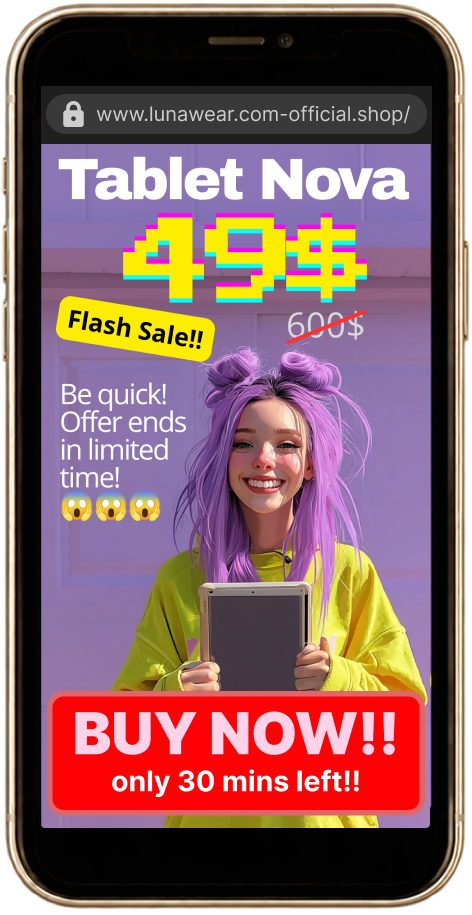
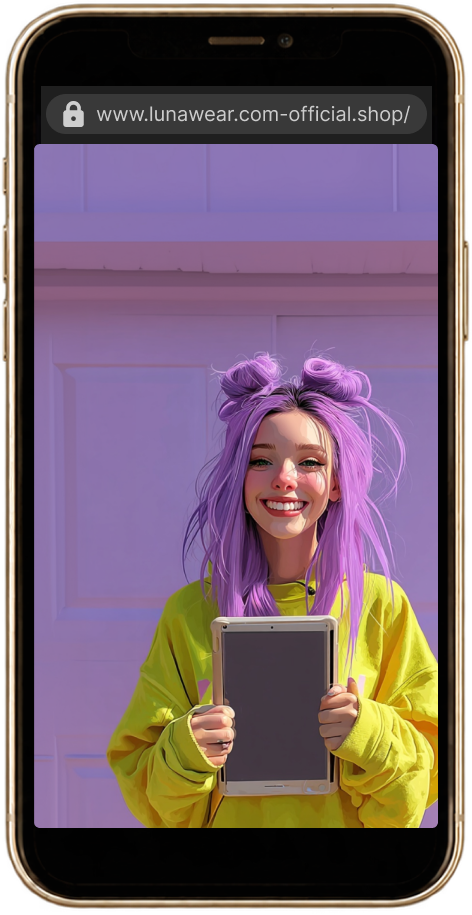
fixed ad on dialog - internationalized

diff --git a/src/rooms/LinkDistrict.jsx b/src/rooms/LinkDistrict.jsx
@@ -10,6 +10,7 @@ import { useRoomProgress } from '../game/roomProgress.js'
 import { track, OBJ, EXT } from '../game/xapi.js'
 import RoomFrame from '../components/RoomFrame.jsx'
 import GateButton from '../components/GateButton.jsx'
+import LunaOfferAd from '../components/LunaOfferAd.jsx'
 import './LinkDistrict.css'
 
 /* PUZZLE 1 — Fraudulent Links (scene version).
@@ -270,38 +271,8 @@ function DoorPage({ type, ambiguous, t }) {
         className="door-page luna-ad"
         style={{ backgroundImage: `url("${bgUrl('link-district/ad-luna-3.png')}"`}}
       >
-        <div className="luna-ad-copy">
-          <div className="luna-ad-3-headline">{t('rooms.link.lunaAd3.headline')}</div>
-          <div className="luna-ad-3-prices">
-            <span className="luna-ad-3-discount">{t('rooms.link.lunaAd3.discount')}</span>
-            <span className="luna-ad-3-oldprice">{t('rooms.link.lunaAd3.oldPrice')}</span>
-          </div>
-         <div style={{ transform: "rotate(-5deg)" }}>
-          <div className="luna-ad-3-second-headline">{t('rooms.link.lunaAd3.headlineSecond')}</div>
-          </div>
-          <p className="luna-ad-3-text">
-            {t('rooms.link.lunaAd3.text')} 😱😱😱
-          </p>
-      
-            <div className="luna-ad-3-button">
-                <p style={{fontSize: "2em", 
-                textTransform: "uppercase", 
-                color: "white",
-                margin: "0",
-                height: "40px",
-              }}
-                >
-                  {t('rooms.link.lunaAd3.cta')}</p>
-              <p
-              style={{margin: "0", 
-                padding: "0 0 8px 0"
-              }}
-              >
-              {t('rooms.link.lunaAd3.timePressure')}</p>
-            </div>
-    
-        </div>
-
+        {/* Same copy is drawn on the phone images (PhoneAd). */}
+        <LunaOfferAd />
       </div>
     )
   }

diff --git a/src/components/PhoneAd.jsx b/src/components/PhoneAd.jsx
@@ -1,0 +1,57 @@
+import { bgUrl } from '../game/assets.js'
+import LunaOfferAd from './LunaOfferAd.jsx'
+import './PhoneAd.css'
+
+/* Phone artwork whose screen holds only the ad's background; the ad text is
+   rendered on top as live, translated HTML (same copy + CSS as the Link
+   District luna-3 door).
+
+   `screen` is the purple screen area measured in the source image's pixels
+   (below the browser bar, which is part of the artwork). */
+const PHONES = {
+  'phone-with-ad': {
+    file: 'phone-with-ad.png',
+    w: 1728, h: 998,
+    screen: { x: 703, y: 183, w: 390, h: 684 },
+  },
+  'offer-phone-only': {
+    file: 'offer-phone-only.png',
+    w: 472, h: 915,
+    screen: { x: 34, y: 144, w: 404, h: 684 },
+  },
+}
+
+/* The door page is ~242px wide at --pu 16px; scale --pu with the phone's
+   screen width so the ad keeps the same proportions at any size. Raise
+   PU_PER_SCREEN to make the text smaller. */
+const PU_PER_SCREEN = 17
+
+const pct = (v, total) => `${(v / total) * 100}%`
+
+export default function PhoneAd({ variant = 'phone-with-ad', className = '', alt, onLoad }) {
+  const p = PHONES[variant]
+  const s = p.screen
+  return (
+    <div
+      className={`phone-ad phone-ad--${variant} ${className}`}
+      style={{ aspectRatio: `${p.w} / ${p.h}` }}
+      role="img"
+      aria-label={alt}
+    >
+      <img className="phone-ad-img" src={bgUrl(p.file)} alt="" onLoad={onLoad} draggable={false} />
+      <div
+        className="door-page phone-ad-screen"
+        aria-hidden="true"
+        style={{
+          left: pct(s.x, p.w),
+          top: pct(s.y, p.h),
+          width: pct(s.w, p.w),
+          height: pct(s.h, p.h),
+          '--pu': `${((s.w / p.w) * 100) / PU_PER_SCREEN}cqw`,
+        }}
+      >
+        <LunaOfferAd />
+      </div>
+    </div>
+  )
+}

diff --git a/src/components/LunaOfferAd.jsx b/src/components/LunaOfferAd.jsx
@@ -1,0 +1,42 @@
+import { useT } from '../i18n/index.jsx'
+import '../rooms/LinkDistrict.css'
+
+/* The "Tablet Nova" flash-sale ad copy (fake lunawear.com-official.shop).
+   Shared by the Link District door (luna-3) and the phone images
+   (phone-with-ad / offer-phone-only), so the text is translated the same
+   everywhere. Styles live in LinkDistrict.css (.luna-ad-3-*) and are sized
+   in --pu, set by whichever .door-page wraps this. */
+export default function LunaOfferAd() {
+  const t = useT()
+  return (
+    <div className="luna-ad-copy">
+      <div className="luna-ad-3-headline">{t('rooms.link.lunaAd3.headline')}</div>
+      <div className="luna-ad-3-prices">
+        <span className="luna-ad-3-discount">{t('rooms.link.lunaAd3.discount')}</span>
+        <span className="luna-ad-3-oldprice">{t('rooms.link.lunaAd3.oldPrice')}</span>
+      </div>
+      <div className="luna-ad-3-flash" style={{ transform: 'rotate(-5deg)' }}>
+        <div className="luna-ad-3-second-headline">{t('rooms.link.lunaAd3.headlineSecond')}</div>
+      </div>
+      <p className="luna-ad-3-text">
+        {t('rooms.link.lunaAd3.text')} 😱😱😱
+      </p>
+      <div className="luna-ad-3-button">
+        <p
+          style={{
+            fontSize: '1.7em',
+            textTransform: 'uppercase',
+            color: 'white',
+            margin: '0',
+            height: '40px',
+          }}
+        >
+          {t('rooms.link.lunaAd3.cta')}
+        </p>
+        <p style={{ margin: '0', padding: '0 0 8px 0' }}>
+          {t('rooms.link.lunaAd3.timePressure')}
+        </p>
+      </div>
+    </div>
+  )
+}

diff --git a/src/components/PhoneAd.css b/src/components/PhoneAd.css
@@ -1,0 +1,54 @@
+/* Phone image + live ad text on its screen (see PhoneAd.jsx).
+   The ad reuses the Link District luna-3 classes; only the layout is
+   adapted here, because the phone screen is much taller than a door. */
+.phone-ad {
+  position: relative;
+  container-type: inline-size; /* --pu is set in cqw of this box */
+  max-width: 100%;
+  max-height: 100%;
+}
+.phone-ad .phone-ad-img {
+  display: block;
+  width: 100%;
+  height: 100%;
+  object-fit: fill; /* box already has the image's aspect ratio */
+  user-select: none;
+}
+.phone-ad .phone-ad-screen {
+  inset: auto; /* position comes from inline left/top/width/height */
+  overflow: hidden;
+  pointer-events: none;
+}
+
+/* Tall-screen layout: stack the copy and pin the CTA to the bottom. */
+.phone-ad-screen .luna-ad-copy {
+  display: flex;
+  flex-direction: column;
+  padding: calc(0.8 * var(--pu)) calc(0.9 * var(--pu));
+}
+.phone-ad-screen .luna-ad-3-headline {
+  margin-top: 0;
+  text-align: center;
+  white-space: nowrap;
+}
+.phone-ad-screen .luna-ad-3-prices {
+  align-items: center;
+}
+.phone-ad-screen .luna-ad-3-oldprice {
+  align-self: flex-end;
+  /* margin-right: calc(2.4 * var(--pu)); */
+  font-size: calc(1.3 * var(--pu));
+}
+.phone-ad-screen .luna-ad-3-flash {
+  align-self: flex-start;
+  margin-top: calc(-1.4 * var(--pu));
+}
+.phone-ad-screen .luna-ad-3-text {
+  width: 45%;
+  margin: calc(1.6 * var(--pu)) 0 0;
+  font-size: calc(1.3 * var(--pu));
+}
+.phone-ad-screen .luna-ad-3-button {
+  align-self: stretch;
+  margin-top: auto;
+}

diff --git a/src/components/screens/InPersonTest.jsx b/src/components/screens/InPersonTest.jsx
@@ -1,12 +1,12 @@
 import { useEffect, useLayoutEffect, useRef, useState } from 'react'
 import { useGame } from '../../game/GameContext.jsx'
 import { useT } from '../../i18n/index.jsx'
-import { bgUrl } from '../../game/assets.js'
 import { passedPosttest } from '../../game/posttestOutcome.js'
 import { track, OBJ, EXT } from '../../game/xapi.js'
 import { testItem, optionSlug } from '../../game/testItems.js'
 import DialogNav from './DialogNav.jsx'
 import CloseButton from '../CloseButton.jsx'
+import PhoneAd from '../PhoneAd.jsx'
 import DialogScene, { FollowCharacter } from './DialogScene.jsx'
 import './pretest.css'
 import { DEBUG, settings } from '../../game/settings.js'
@@ -353,7 +353,7 @@ export default function InPersonTest({ script: p, intro, replyPose, endingPose, 
             if (event.key === 'Tab') { event.preventDefault(); closeRef.current?.focus({ preventScroll: true }) }
           }}
         >
-          <img src={bgUrl('phone-with-ad.png')} alt={t('story.product.offerLabel')} onLoad={() => setPhoneViewed(true)} />
+          <PhoneAd variant="phone-with-ad" alt={t('story.product.offerLabel')} onLoad={() => setPhoneViewed(true)} />
           <CloseButton
             ref={closeRef}
             className="pretest-phone-close"

diff --git a/src/components/screens/pretest.css b/src/components/screens/pretest.css
@@ -386,7 +386,13 @@
   z-index: 50;
   background: #090b10;
 }
-.pretest-phone-view img { display: block; width: 100%; height: 100%; object-fit: contain; }
+.pretest-phone-view {
+  display: flex;
+  align-items: center;
+  justify-content: center;
+}
+/* Phone image + live ad text (PhoneAd), fitted like object-fit: contain. */
+.pretest-phone-view .phone-ad { height: 100%; }
 /* Look + size: shared .close-btn (CloseButton). Only its spot here. */
 .pretest-phone-close { position: absolute; top: 16px; right: 20px; }
 .reduced-motion .pretest-phone path { animation: none; fill: rgba(190, 255, 255, 0.12); }
